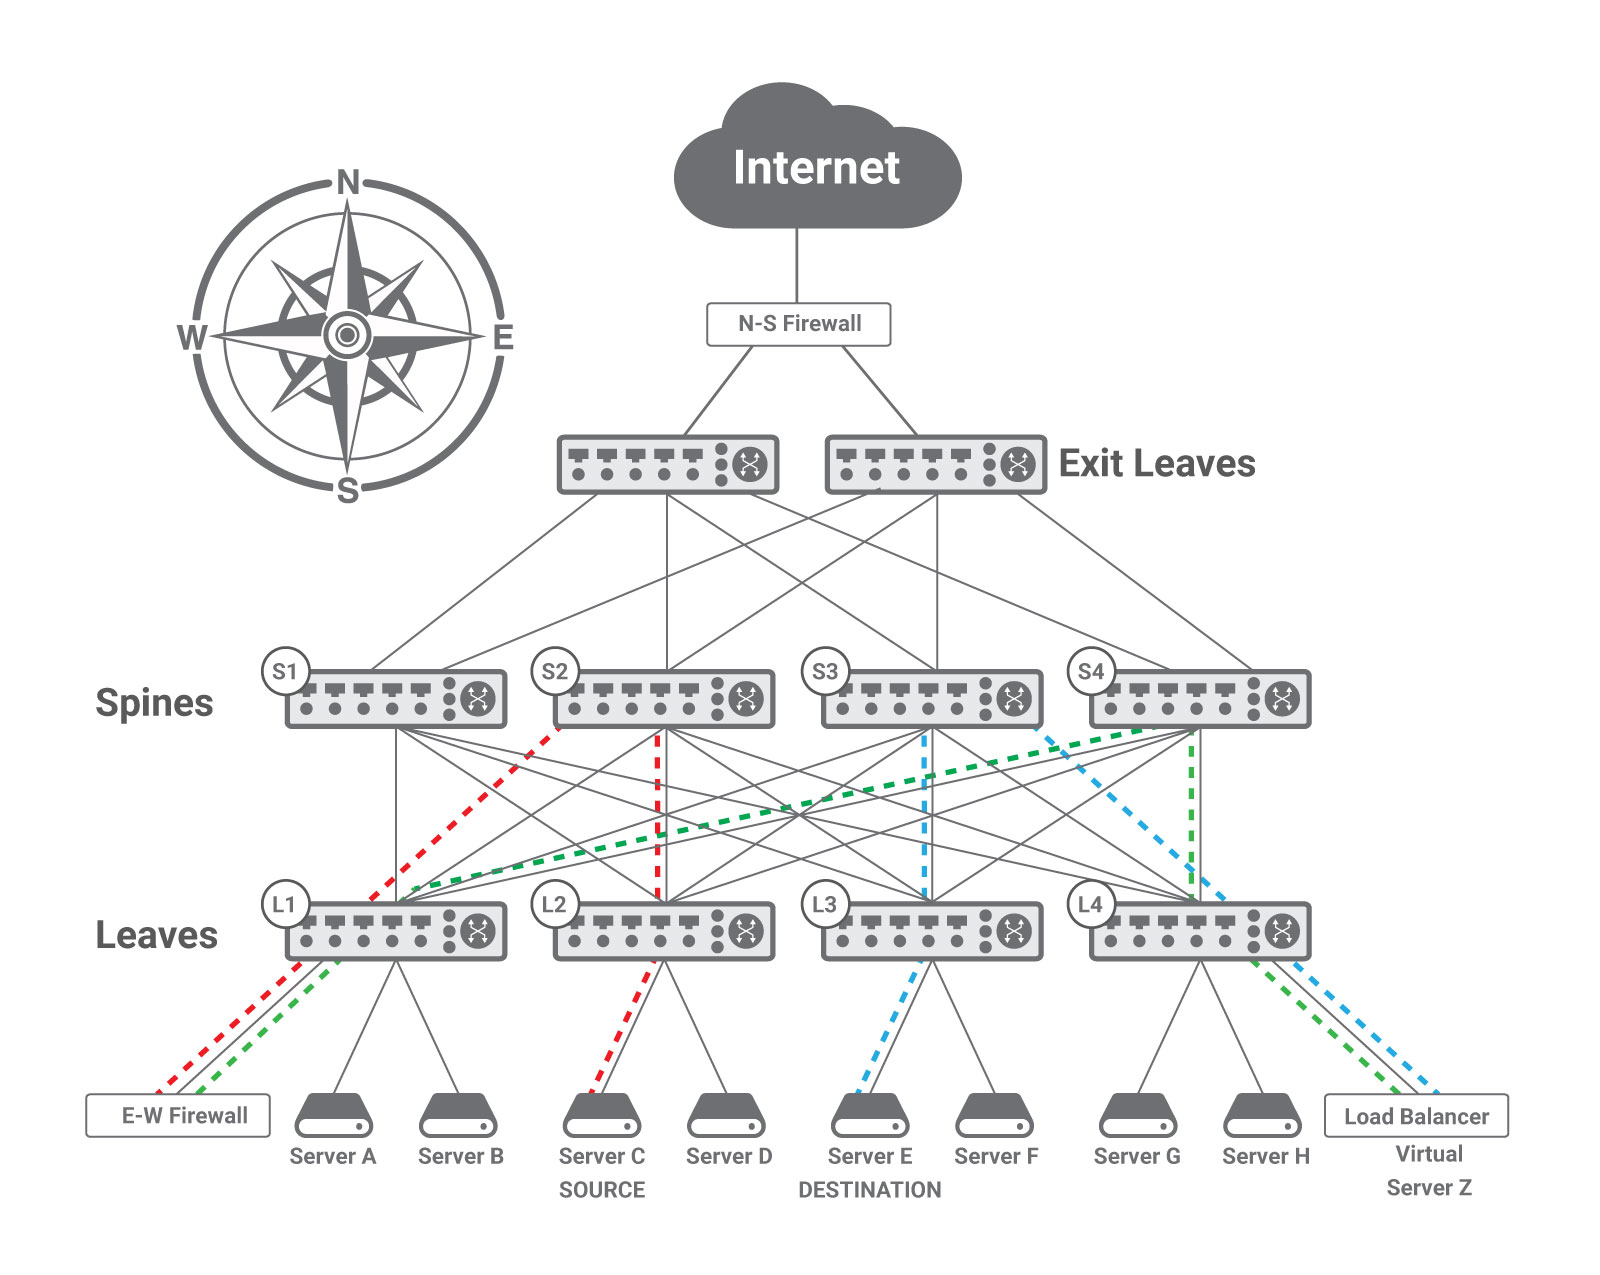
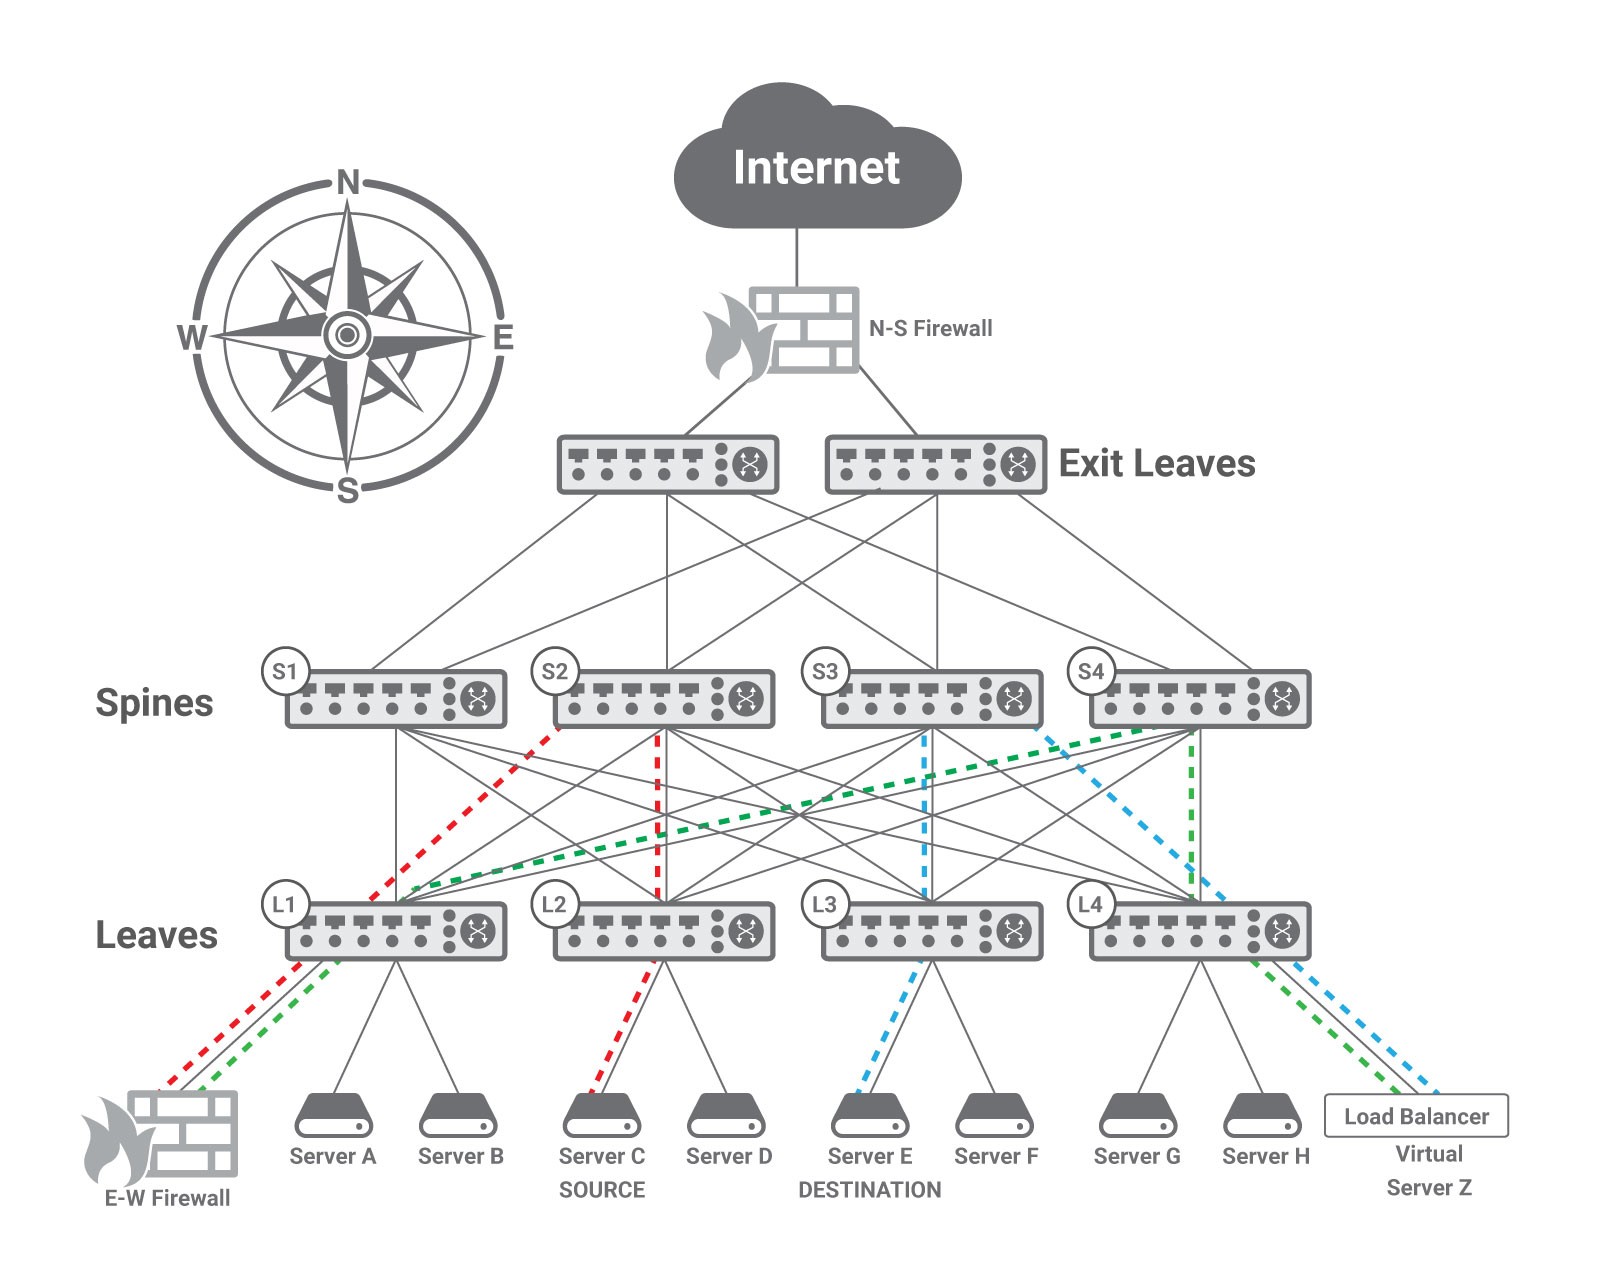
First with Tombone Post in draft mode

Changed region(s): [[0.4375, 0.2141, 0.625, 0.3365], [0.0312, 0.8565, 0.1562, 0.9482]]

diff --git a/_posts/2020-06-06-trombone.md b/_posts/2020-06-06-trombone.md
@@ -1,0 +1,136 @@
+---
+layout: post
+comments: true
+# Published tag, if true, remove post from the list in the site, but you can access directly from URL
+draft: true
+author: Silvano Gai and Mario Baldi
+title:  Traffic Tromboning
+excerpt: Silvano Gai and Mario Baldi point of view
+description: Why, What, Where, and How
+---
+
+# Why do we have traffic tromboning?
+
+Network and security services have traditionally been deployed in front of a group of end hosts that share some common function and are topologically close: e.g., private corporate clients, public corporate servers, the servers of a specific department, the hosts of a corporate branch.
+The following figure shows a most common deployment model for services such as NAT, load balancers and firewalls.
+
+![Service Appliance](/assets/images/service-appliance.png)
+
+With virtualization, while the same logical model still applies, the physical placement of the hosts, their physical proximity, and the natural point to deploy the service application (that sits on the shortest path of traffic to and from the served hosts) have disappeared. Of course! It is in the very nature of virtualization (as well as its value and goal) to make all functional components  (resources, topology, location) independent of the physical ones.
+Hosts communicating with each other can be anywhere in a data center and consequently the network design must:
+* Provide equal and abundant bandwidth between any pair of hosts.
+* Separate “physical” adjacency (in the IP terminology sense, namely layer two connectivity) from the actual physical topology.
+
+The Clos network topology with its fractal capability of scaling (possibly incrementally) by adding identical components (leaf and spine switches) interconnected according to the same pattern, effectively solves the first challenge/requirement.
+
+Network virtualization techniques, such as SDN (Software Defined Networking) and VXLAN (Virtual Extensible LAN), address the second requirement.
+
+In this context, the remaining challenge is  how to deploy the networking and security services (whether discrete/physical appliances or virtual network functions running on the same type of physical hosts as the workloads), in front of the (virtual) hosts they serve.
+The solution relies on  the same technologies and infrastructure that make logical proximity independent of physical (topological) proximity: network virtualization.
+
+Specifically, there are two main mechanisms that can be used for this purpose:
+* Configure the service (virtual) appliance as the default gateway for a particular IP subnet. This requires layer two connectivity between the source of the traffic and the appliance. All packets that need to go outside the IP subnet need to cross the appliance/default gateway by definition.
+* The appliance injects a default route using a routing protocol like BGP or OSPF. With this, all traffic that does not have a more specific route to the destination will follow the default route and therefore traverse the appliance.
+
+We will subsequently discuss more details and the implications of these two techniques when used in conjunction with Clos networks in data centers.
+
+# What is traffic tromboning?
+
+Whichever of the above technique is deployed, traffic between topologically close hosts might take a long detour and get back, as shown in the figure below.
+
+![Trombone](/assets/images/trombone2.png)
+
+This phenomenon is commonly known as traffic trombone or traffic tromboning, as the shape of the path taken by the traffic in the network resembles the shape of the brass musical instrument that dates back to the 15th century and whose name, trombone, derives from "tromba," the Italian word for trumpet: a large trumpet.
+
+In a data center fabric based on a Clos topology, traffic tromboning results in traffic traversing the leaf-spine fabric twice resulting in duplication of both network load and the latency experienced by the two hosts.
+
+Moreover, in case traffic between most pairs of hosts needs to receive the service offered by an appliance, the appliance represents a funneling point - also recalling the shape of a trombone - that must be traversed by traffic from a disparate set of source-destination pairs (see the following figure for a graphic representation).
+
+![Chokepoint](/assets/images/trombone.jpg)
+
+In general, appliances like firewalls, IDSs (Intrusion Detection Systems), NAT (Network Address Translation), load balancers, etc. are traffic trombones. In the following we will use the term trombone to refer to these appliances.
+
+Typically it is not easy to load balance traffic among multiple trombones since these appliances are stateful. Let's consider a ubiquitous combination of a firewall and a NAT that we all have in the router that connects our house to the Internet. When a family member browses the Internet, a TCP session is created. The router needs to create a NAT rule for the outgoing traffic, but also a second one for the return traffic. These two rules need to be kept for the duration of the TCP session.
+
+Let's consider a corporate network where two or more NAT appliances are required for scale or fault tolerance, one of the following should apply:
+* Direct and reverse directions of a flow should go through the same appliance.
+* State should be synchronized across the various appliances.
+
+**Synchronizing state across appliances is at best impractical and at worst impossible.**
+
+For example, if a NAT function is present, the packet on the Internet will have the NAT source IP address. If multiple appliances are deployed in parallel, the reverse traffic will be explicitly addressed and routed to the NAT instance with the IP address used for the translation. Hence, when a flow is assigned to a traffic trombone, it uses that particular trombone for all its duration or until the trombone fails.
+
+Mechanisms exist for high availability across multiple trombones in case of catastrophic failures.
+
+# Where does traffic tromboning happen?
+
+The trombone, as any funnel, may or may not be a choke point or bottleneck. Historically tromboning was happening toward the Internet, a typical example being the corporate firewall connecting a corporate network to the Internet. In that case, the capacity of the link to the service provider was the bottleneck.
+
+Today we have firewalls capable of supporting up to 100 Gbps; they are costly, but they exist. Firewalls operating at 1 Gbps are very common and cheap, while 10 Gbps ones are reasonable. Therefore firewalls are typically not choke-points when used to connect to the Internet, a type of traffic also called North-South in a data center.
+
+![Compass](/assets/images/compass.png)
+
+Different considerations apply to East-West traffic, i.e., the traffic inside the data center.
+
+We have seen in a [previous post](https://silvanogai.github.io/posts/service-edge/) that the amount of this traffic is at least ten times larger than the North-South one. Therefore, the East-West traffic may exceed the firewall's capacity, and the trombone may become a bottleneck.
+
+In the same post, we have also discussed how placing trombone on a Clos network disrupts optimal routing and causes a large percentage of the network bandwidth to go wasted.
+
+# How is traffic tromboning realized?
+
+Let's now consider the configuration complexity of traffic tromboning for East-West traffic in conjunction with Clos networks for the two approaches previously mentioned.
+
+## Layer two traffic tromboning
+
+To explain this first configuration we will reuse a figure from the previously mentioned post.
+
+![Network Diagram](/assets/images/network.jpg)
+
+In this example, the E-W Firewall is deployed in transparent mode, acting as the default gateway for the server C subnet. As previously explained, IP rules require that a host and its default gateway be in the same subnet, i.e., be able to exchange layer two frames.
+
+This is impossible without some encapsulation, because in a Clos network each leaf implements a layer two domain (with its own IP subnet) and uses layer three forwarding towards the spines leveraging ECMP (equal cost multi-path) routing to spread the traffic across multiple paths. Therefore the network administrator needs to deploy an encapsulation technique, like VXLAN, to extend the layer two domain of leaf L2 (where C is connected) to leaf L1 where the E-W Firewall is connected.
+
+Since the firewall needs to serve as a default gateway for servers connected to multiple leaves (namely, multiple IP subnets), VLAN trunking is typically enabled between leaf L1 and the E-W Firewall. Each VLAN contains the IP subnet of a leaf and each VLAN is mapped to a VNID (Virtual Network IDentifier) of the VXLAN protocol. For example, the leaf L2 may encapsulate the native VLAN toward server C in a VXLAN tunnel with VNID = 88 and leaf L1 may remove the VXLAN encapsulation and map VNID = 88 to VLAN =8 toward the E-W firewall. Leaf L4 may use VNID = 44 and leaf L1 may map it to VLAN = 4. The same is true in  the reverse direction.
+
+This approach therefore uses a layer two network virtualization technique.
+
+## Layer three traffic tromboning
+
+In order to use layer 3 routing to force traffic through a trombone, that trombone must inject a default route that is propagated through the network and used for all traffic that does not have a more specific route. With reference to the previous figure, a default route injected in the fabric by the E-W Firewall can be used to stir the traffic from Server C to Server Z through the firewall only if leaf L2 and the other leaf and spine switches do not have a more specific route to Server Z. How can this be possible, while enabling Server Z to be reached by packets once they have been processed by the firewall?
+
+The solution is offered by layer three network virtualization. Virtual Routing and Forwarding (VRF) is a popular technique allowing multiple instances of a routing table to exist in a router and work simultaneously. Each physical (i.e., a port) or logical (i.e., a VLAN) interface is associated with one VRF instance. The BGP routing protocol is deployed to advertise routes specifying the VRF instance they belong to.
+
+In the specific case of the above figure, the East-West traffic requires three VRFs: red, green, and blue. The E-W Firewall is the only point of contact in the red VRF between Server C and the rest of the network, and thus all the traffic must transit through the firewall. To achieve this the E-W Firewall injects a default route into the red VRF that is propagated through the network and used for traffic on the red VRF. The routing tables of the red VRF contain more specific routes only to destinations connected to leaf L2, including Server C; consequently, when switches route a packet addressed to Server Z, they send it towards the firewall as indicated by the default route.
+
+The E-W Firewall is deployed in routed mode and participates in two VRFs: the red VRF associated with the IP subnet of Server C and the green VRF associated with the load balancer (i.e., Server Z). The firewall’s routing table includes a route to Server Z through the physical or logical interface that belongs to the green VRF; hence, the packet is forwarded back into the fabric through such interface. Leaf and spine switches apply the green VRF whose tables contain a specific route for Server Z.
+
+The load balancer executes its function and determines that the packet should be delivered to physical Server E. The load balancer’s routing table has a route to the IP subnet of leaf L3 through the interface associated with the blue VRF. Hence, once the load balancer forwards the packet into the fabric, switches use the blue VRF tables that contain a route to the subnet of Server E.
+
+The trombones can be connected to multiple VRFs either using multiple physical ports or multiple logical interfaces (e.g., VLANs) on the same physical port, but they do not need to be VRF-aware. They just need a single routing table with routes through the proper physical or logical interfaces. In our use case, the E-W Firewall learns such routes by maintaining two routing sessions (e.g., using BGP): one on the red port (physical or logical) and the other one on the green port.
+
+All the spine switches in our network participate in the three VRFs. Leaf L1 is part of the red and green VRFs, leaf L4 green and blue, leaf L2 red, and leaf L3 blue. More VRFs can be deployed on leaves to serve the remaining hosts.
+
+In this case the use of VXLAN is not needed and is replaced by VRF. More complicated schemes that combine VXLAN and VRF are also possible.
+
+# Conclusions
+
+The conclusions of this post are very similar to the one of a [previous post.](https://silvanogai.github.io/posts/service-edge/)
+
+Whenever possible avoid using centralized appliances for East-West traffic since they are bottlenecks, disrupt optimal routing, and introduce significant latency and jitter.
+
+Leverage the same scale out model utilized for the compute by naturally placing services in a distributed fashion at the edge.
+
+Adopting domain-specific hardware for services at the edge and installing it in conjunction with servers allows services to scale at the same rate of compute.
+
+---
+
+
+My book has a description of some of these topics in  Section 2.7.
+
+![Book Cover](/assets/images/book-cover.jpg)
+
+You can read [an independent review of the book here.](https://www.linkedin.com/posts/activity-6642125779486539776-FJAj/)
+
+The book was also listed in [The Top 10 Best Cloud Storage Books You Need to Read in 2020.](https://solutionsreview.com/data-storage/the-top-10-best-cloud-storage-books-you-need-to-read-in-2020/)
+
+Don't Forget that Pearson/Addison-Wesley has a special offer on my latest book. To save 35% on the book or eBook go to [the informit website](https://www.informit.com/store/building-a-future-proof-cloud-infrastructure-a-unified-9780136624097?utm_source=pensando&utm_medium=website&utm_campaign=bookad) and use code FUTUREPROOF during checkout to apply the discount. Offer expires December 31, 2020
